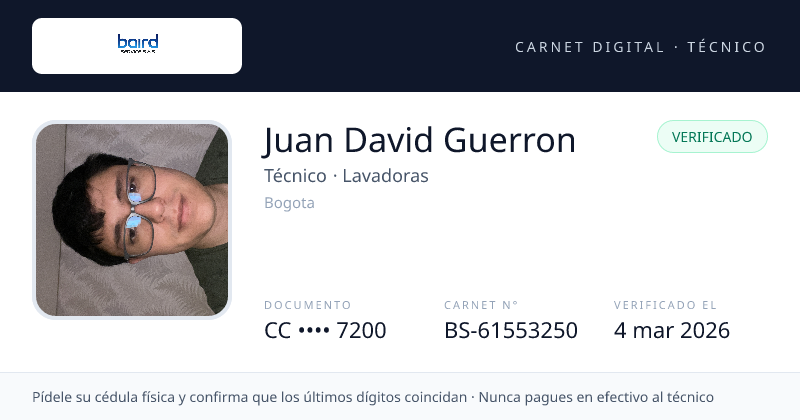
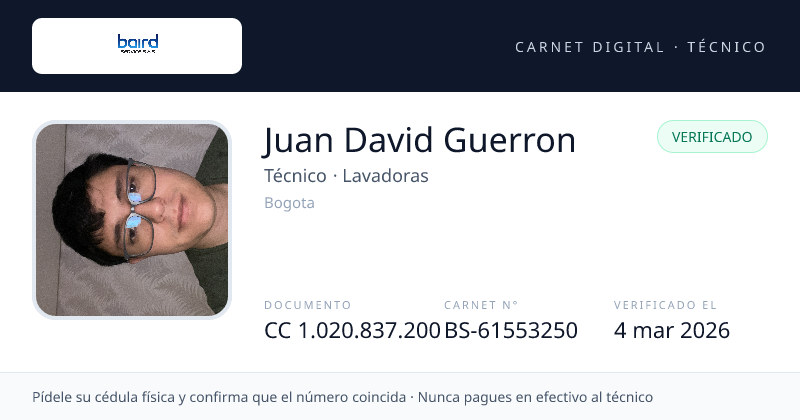
feat(carnet): mostrar el número de cédula completo (solo se oculta la foto del documento)
Decisión 2026-10-10: el carnet digital muestra tipo + número de documento
con puntos de miles (CC 1.020.837.200) para que el cliente lo coteje con la
cédula física. Lo que no sale de /admin es la IMAGEN de la cédula.

- carnet.ts: formatearDocumento() reemplaza a enmascararDocumento();
  campo `documento` en CarnetTecnicoData. Tests actualizados.
- CarnetTecnico.tsx, /api/carnet PNG (columna Documento más ancha), portal
  del técnico, caption de WhatsApp, home y docs: textos pasan de "últimos
  dígitos" a "confirma que el número coincida".
- scripts/muestra-carnet.png regenerada.

Changed region(s): [[0.3438, 0.9286, 0.9062, 0.9595], [0.375, 0.7429, 0.5625, 0.8048]]

diff --git a/src/lib/utils/carnet.ts b/src/lib/utils/carnet.ts
@@ -4,10 +4,10 @@
  * Reemplaza la exposición de la FOTO DE LA CÉDULA al cliente (portal
  * /servicio/{cliente_token} + imagen por WhatsApp en procesarAceptacion):
  * el cliente solo necesita confirmar que la persona que llega es la que Baird
- * asignó, y eso se logra con foto de perfil + nombre + documento ENMASCARADO
- * (últimos dígitos) que el cliente compara contra la cédula física que el
- * técnico muestra en la puerta. La imagen completa de la cédula es PII
- * sensible (Ley 1581/2012) y no vuelve a salir de /admin.
+ * asignó, y eso se logra con foto de perfil + nombre + tipo y NÚMERO de
+ * documento que el cliente compara contra la cédula física que el técnico
+ * muestra en la puerta (decisión 2026-10-10: el número sí se muestra; lo que
+ * no sale de /admin es la IMAGEN de la cédula, PII sensible, Ley 1581/2012).
  *
  * Tres superficies consumen el mismo modelo `CarnetTecnicoData`:
  *   - `src/components/ui/CarnetTecnico.tsx` → tarjeta React (portal cliente
@@ -23,8 +23,8 @@ export interface CarnetTecnicoData {
   nombre_completo: string
   foto_perfil_url: string | null
   tipo_documento: string | null
-  /** Documento ENMASCARADO (p.ej. "•••• 4567"). Nunca el número completo. */
-  documento_enmascarado: string | null
+  /** Número de documento formateado con puntos de miles (p.ej. "1.032.456.789"). */
+  documento: string | null
   especialidad_principal: string | null
   ciudad_pueblo: string | null
   verificado: boolean
@@ -52,21 +52,18 @@ export interface CarnetTecnicoRow {
   contrato_firmado?: boolean | null
 }
 
-/** Cuántos dígitos finales del documento se muestran en el carnet. */
-export const DIGITOS_VISIBLES_DOCUMENTO = 4
-
 /**
- * Enmascara el número de documento dejando visibles solo los últimos
- * `DIGITOS_VISIBLES_DOCUMENTO` dígitos: "1032456789" → "•••• 6789".
- * Documentos muy cortos (≤ 4 dígitos) se ocultan por completo. Devuelve null
- * si no hay número.
+ * Formatea el número de documento para el carnet: limpia puntos/espacios y,
+ * si es puramente numérico, agrega puntos de miles ("1032456789" →
+ * "1.032.456.789"). Pasaportes alfanuméricos se devuelven limpios tal cual.
+ * Devuelve null si no hay número.
  */
-export function enmascararDocumento(numero: string | null | undefined): string | null {
+export function formatearDocumento(numero: string | null | undefined): string | null {
   if (!numero) return null
-  const limpio = String(numero).replace(/[^0-9A-Za-z]/g, '')
+  const limpio = String(numero).replace(/[^0-9A-Za-z]/g, '').toUpperCase()
   if (!limpio) return null
-  if (limpio.length <= DIGITOS_VISIBLES_DOCUMENTO) return '••••'
-  return `•••• ${limpio.slice(-DIGITOS_VISIBLES_DOCUMENTO)}`
+  if (!/^\d+$/.test(limpio)) return limpio
+  return limpio.replace(/\B(?=(\d{3})+(?!\d))/g, '.')
 }
 
 /**
@@ -86,7 +83,7 @@ export function construirCarnet(row: CarnetTecnicoRow): CarnetTecnicoData {
     nombre_completo: row.nombre_completo,
     foto_perfil_url: row.foto_perfil_url ?? null,
     tipo_documento: row.tipo_documento ?? null,
-    documento_enmascarado: enmascararDocumento(row.numero_documento),
+    documento: formatearDocumento(row.numero_documento),
     especialidad_principal: row.especialidad_principal ?? null,
     ciudad_pueblo: row.ciudad_pueblo ?? null,
     verificado,

diff --git a/src/__tests__/utils/carnet.test.ts b/src/__tests__/utils/carnet.test.ts
@@ -2,35 +2,30 @@ import { describe, it, expect } from 'vitest'
 import {
   codigoCarnet,
   construirCarnet,
-  enmascararDocumento,
+  formatearDocumento,
   formatearFechaCarnet,
   urlImagenCarnet,
 } from '@/lib/utils/carnet'
 
-describe('enmascararDocumento', () => {
-  it('deja visibles solo los últimos 4 dígitos', () => {
-    expect(enmascararDocumento('1032456789')).toBe('•••• 6789')
+describe('formatearDocumento', () => {
+  it('agrega puntos de miles a un número de cédula', () => {
+    expect(formatearDocumento('1032456789')).toBe('1.032.456.789')
+    expect(formatearDocumento('80123456')).toBe('80.123.456')
   })
 
-  it('limpia puntos y espacios antes de enmascarar', () => {
-    expect(enmascararDocumento('1.032.456.789')).toBe('•••• 6789')
-    expect(enmascararDocumento(' 80 123 456 ')).toBe('•••• 3456')
+  it('limpia puntos y espacios antes de formatear', () => {
+    expect(formatearDocumento('1.032.456.789')).toBe('1.032.456.789')
+    expect(formatearDocumento(' 80 123 456 ')).toBe('80.123.456')
   })
 
-  it('oculta por completo documentos de 4 o menos caracteres', () => {
-    expect(enmascararDocumento('1234')).toBe('••••')
-    expect(enmascararDocumento('12')).toBe('••••')
+  it('devuelve pasaportes alfanuméricos limpios en mayúscula', () => {
+    expect(formatearDocumento('ab 123456')).toBe('AB123456')
   })
 
   it('devuelve null sin número', () => {
-    expect(enmascararDocumento(null)).toBeNull()
-    expect(enmascararDocumento('')).toBeNull()
-    expect(enmascararDocumento('---')).toBeNull()
-  })
-
-  it('nunca contiene el número completo', () => {
-    const num = '1032456789'
-    expect(enmascararDocumento(num)).not.toContain(num)
+    expect(formatearDocumento(null)).toBeNull()
+    expect(formatearDocumento('')).toBeNull()
+    expect(formatearDocumento('---')).toBeNull()
   })
 })
 
@@ -58,15 +53,14 @@ describe('construirCarnet', () => {
     contrato_firmado: true,
   }
 
-  it('arma el carnet verificado con documento enmascarado', () => {
+  it('arma el carnet verificado con el número de documento completo', () => {
     const c = construirCarnet(base)
     expect(c.verificado).toBe(true)
-    expect(c.documento_enmascarado).toBe('•••• 6789')
+    expect(c.documento).toBe('1.032.456.789')
+    expect(c.tipo_documento).toBe('CC')
     expect(c.fecha_verificacion).toBe(base.fecha_verificacion)
     expect(c.codigo).toBe('BS-3F2A9C1E')
     expect(c.contrato_firmado).toBe(true)
-    // El modelo NO transporta el número completo
-    expect(JSON.stringify(c)).not.toContain('1032456789')
   })
 
   it('un técnico pendiente no queda verificado ni con fecha', () => {
@@ -77,7 +71,7 @@ describe('construirCarnet', () => {
 
   it('tolera columnas ausentes (registros viejos)', () => {
     const c = construirCarnet({ id: base.id, nombre_completo: 'X' })
-    expect(c.documento_enmascarado).toBeNull()
+    expect(c.documento).toBeNull()
     expect(c.foto_perfil_url).toBeNull()
     expect(c.contrato_firmado).toBe(false)
   })

diff --git a/src/app/page.tsx b/src/app/page.tsx
@@ -72,7 +72,7 @@ const CONTENIDO = {
         num: '03',
         emoji: '🪪',
         titulo: 'Recibes su carnet digital',
-        texto: 'Foto, nombre y últimos dígitos de su cédula llegan a tu WhatsApp. Al abrir la puerta, lo comparas con su documento físico.',
+        texto: 'Foto, nombre y número de cédula llegan a tu WhatsApp. Al abrir la puerta, lo comparas con su documento físico.',
         img: IMAGES.plumberSink,
       },
       {
@@ -171,7 +171,7 @@ const CONTENIDO = {
   },
   confianza: [
     { emoji: '🏅', titulo: 'Calidad certificada ISO 9001', texto: 'Somos una empresa certificada en gestión de calidad bajo la norma internacional ISO 9001.' },
-    { emoji: '🪪', titulo: 'Carnet digital del técnico', texto: 'Recibes por WhatsApp y en tu portal el carnet con foto, nombre y últimos dígitos de la cédula para cotejar en la puerta. Nunca compartimos su documento completo.' },
+    { emoji: '🪪', titulo: 'Carnet digital del técnico', texto: 'Recibes por WhatsApp y en tu portal el carnet con foto, nombre y número de cédula para cotejar en la puerta. La foto de su documento nunca se comparte.' },
     { emoji: '🔒', titulo: 'Pago seguro a Baird Service', texto: 'El pago se realiza directamente a la empresa por medios electrónicos. No se acepta efectivo.' },
     { emoji: '🤝', titulo: 'Compromiso de calidad', texto: 'Solo técnicos que cumplen los estándares de Baird pueden recibir solicitudes.' },
   ],
@@ -240,11 +240,11 @@ function WhatsAppMockup() {
                   <div className="w-7 h-7 rounded-lg bg-slate-200 flex items-center justify-center text-[10px] font-black text-slate-600">CR</div>
                   <div className="leading-tight">
                     <p className="text-[11px] font-semibold text-gray-800">Carlos R.</p>
-                    <p className="text-[9px] text-emerald-700 font-semibold">✓ Verificado · CC •••• 4521</p>
+                    <p className="text-[9px] text-emerald-700 font-semibold">✓ Verificado · CC 80.123.456</p>
                   </div>
                 </div>
                 <p className="text-[10px] text-gray-500 leading-relaxed">
-                  🪪 Carnet digital de tu técnico. Al llegar, pídele su cédula y confirma los últimos dígitos.
+                  🪪 Carnet digital de tu técnico. Al llegar, pídele su cédula y confirma que el número coincida.
                 </p>
                 <p className="text-[10px] text-gray-400 text-right mt-1">10:41 AM ✓✓</p>
               </div>

diff --git a/src/app/api/carnet/[tecnicoId]/route.tsx b/src/app/api/carnet/[tecnicoId]/route.tsx
@@ -70,8 +70,8 @@ export async function GET(req: NextRequest, ctx: { params: Promise<{ tecnicoId: 
     .map(p => p[0]?.toUpperCase() ?? '')
     .join('')
 
-  const documento = carnet.documento_enmascarado
-    ? `${carnet.tipo_documento ?? 'CC'} ${carnet.documento_enmascarado}`
+  const documento = carnet.documento
+    ? `${carnet.tipo_documento ?? 'CC'} ${carnet.documento}`
     : '—'
 
   const img = new ImageResponse(
@@ -177,11 +177,11 @@ export async function GET(req: NextRequest, ctx: { params: Promise<{ tecnicoId: 
             </div>
 
             <div style={{ display: 'flex', marginTop: 'auto', width: '100%' }}>
-              <div style={{ display: 'flex', flexDirection: 'column', width: 180 }}>
+              <div style={{ display: 'flex', flexDirection: 'column', width: 240 }}>
                 <span style={{ fontSize: 11, letterSpacing: 2, color: '#94a3b8', textTransform: 'uppercase' }}>Documento</span>
                 <span style={{ fontSize: 22, fontWeight: 700, marginTop: 2 }}>{documento}</span>
               </div>
-              <div style={{ display: 'flex', flexDirection: 'column', width: 170 }}>
+              <div style={{ display: 'flex', flexDirection: 'column', width: 160 }}>
                 <span style={{ fontSize: 11, letterSpacing: 2, color: '#94a3b8', textTransform: 'uppercase' }}>Carnet N°</span>
                 <span style={{ fontSize: 22, fontWeight: 700, marginTop: 2 }}>{carnet.codigo}</span>
               </div>
@@ -206,7 +206,7 @@ export async function GET(req: NextRequest, ctx: { params: Promise<{ tecnicoId: 
             color: '#475569',
           }}
         >
-          Pídele su cédula física y confirma que los últimos dígitos coincidan · Nunca pagues en efectivo al técnico
+          Pídele su cédula física y confirma que el número coincida · Nunca pagues en efectivo al técnico
         </div>
       </div>
     ),

diff --git a/src/components/ui/CarnetTecnico.tsx b/src/components/ui/CarnetTecnico.tsx
@@ -100,8 +100,8 @@ export default function CarnetTecnico({ carnet, ayuda = 'ninguno', className = '
             <div>
               <dt className="text-[10px] uppercase tracking-wide text-slate-400 font-semibold">Documento</dt>
               <dd className="font-mono text-slate-900 mt-0.5">
-                {carnet.documento_enmascarado
-                  ? `${carnet.tipo_documento ?? 'CC'} ${carnet.documento_enmascarado}`
+                {carnet.documento
+                  ? `${carnet.tipo_documento ?? 'CC'} ${carnet.documento}`
                   : '—'}
               </dd>
             </div>
@@ -126,13 +126,13 @@ export default function CarnetTecnico({ carnet, ayuda = 'ninguno', className = '
             {ayuda === 'cliente' && (
               <>
                 <span className="font-semibold text-slate-700">Al llegar, pídele su cédula física</span> y confirma que
-                los últimos dígitos coincidan con este carnet. Nunca pagues en efectivo al técnico.
+                el número coincida con este carnet. Nunca pagues en efectivo al técnico.
               </>
             )}
             {ayuda === 'tecnico' && (
               <>
                 Muestra este carnet al cliente al llegar y ten tu cédula física a la mano: el cliente
-                comparará los últimos dígitos.
+                comparará el número con este carnet.
               </>
             )}
             {ayuda === 'ninguno' && <>Carnet emitido por Baird Service S.A.S. · lineablanca.bairdservice.com</>}

diff --git a/src/lib/services/whatsapp.service.ts b/src/lib/services/whatsapp.service.ts
@@ -1116,7 +1116,7 @@ export async function procesarAceptacion(token: string, horarioSeleccionado?: 1 
     await enviarImagen(
       sol.cliente_telefono,
       carnetUrl,
-      `🪪 Carnet digital de ${tecnico.nombre_completo} — tu técnico Baird Service. Al llegar, pídele su cédula física y confirma que los últimos dígitos coincidan.`
+      `🪪 Carnet digital de ${tecnico.nombre_completo} — tu técnico Baird Service. Al llegar, pídele su cédula física y confirma que el número coincida.`
     ).catch(err => console.error('[procesarAceptacion] carnet digital falló (24h?):', err instanceof Error ? err.message : err))
   }
 

diff --git a/src/app/tecnico/[token]/page.tsx b/src/app/tecnico/[token]/page.tsx
@@ -401,7 +401,7 @@ function CarnetModal({ carnet, onClose }: { carnet: CarnetTecnicoData; onClose: 
         </button>
       </div>
       <p className="mt-4 text-[11px] text-slate-400 text-center max-w-sm">
-        El cliente ya recibió este carnet en su portal. Tu cédula completa nunca se le muestra: solo los últimos dígitos.
+        El cliente ya recibió este carnet en su portal. La foto de tu cédula nunca se le muestra: solo tu nombre, foto de perfil y número de documento.
       </p>
     </div>
   )

diff --git a/docs/GOTCHAS.md b/docs/GOTCHAS.md
@@ -22,7 +22,7 @@ Trampas conocidas. Léelo antes de tocar código sensible.
 - **Nada de `void promesa` (fire-and-forget) en código server-side (2026-10-09):** en Vercel la función se congela apenas responde; una promesa sin `await` queda pendiente y se ejecuta minutos después (cuando la instancia se reusa) o nunca. Caso real: `registrarMensajeCliente()` (evento `mensaje_cliente` del historial) se llamaba con `void` en 19 sitios de `whatsapp.service.ts`; tras la carga masiva de 3 órdenes MABE el admin no vio en el historial que la plantilla de horario ya había salido y la reenvió → clientes con el WhatsApp duplicado. Hoy todo `registrarMensajeCliente` va con `await` (hay test: `src/__tests__/services/historial-mensaje-cliente.test.ts`). Si de verdad necesitas trabajo post-respuesta, usa `after()` de `next/server` como hace `/api/solicitar` con el geocoding. Complemento: el webhook registra los `status=failed` de Meta como evento `mensaje_cliente` (payload `entrega:'failed'`) en la solicitud activa del cliente, y "Reenviar último mensaje" refresca el historial al terminar.
 - **Subida de fotos = SIEMPRE dos entradas, cámara en vivo + guardadas (2026-10-09):** `src/components/ui/SelectorFoto.tsx` renderiza dos `<input type="file">` ocultos: uno con `capture="user"|"environment"` (abre la cámara frontal/trasera) y otro sin `capture` (galería o explorador, aquí se puede sumar PDF vía `acceptGaleria`). No se puede hacer con un solo input: en iOS `capture` oculta la Fototeca y en varios Android salta el selector. Usado en /registro (perfil = cámara frontal, cédula = trasera), `ProductosNecesariosForm`, portal supervisor (guía + comprobante) y admin (contrato escaneado). Diagnóstico y completar ya tenían el mismo patrón con inputs propios. Si agregas un nuevo punto de subida de fotos, usa el componente en vez de un input suelto.
 - **Fotos de /registro (perfil + cédula) se preparan en el navegador (2026-10-09):** `handleFileChange` llama a `prepararFoto()` (`src/lib/utils/foto-registro.ts`) ANTES de guardar el archivo en estado: detecta el tipo real por magic bytes (`sniffImageType`, manda sobre `file.type`, que Android a veces deja vacío y un PDF renombrado puede falsear), lo comprime/re-encodea a JPEG con `compressImageIfNeeded` (perfil 1600 px, cédula 2400 px; `forceReencode` para WebP/HEIC/GIF/BMP porque el JPEG puede pesar más que el original y aun así lo queremos) y recién ahí valida el tope de 5 MB. Antes se rechazaban fotos de celular >2 MB, WebP/HEIC y archivos sin extensión. HEIC solo se decodifica en Safari: en Chrome/Android el técnico recibe un mensaje para tomar la foto desde el formulario. `uploadImage()` (uploadHelpers) ya NO exige extensión en el nombre (la deriva de los magic bytes) y expone el mensaje real de Supabase en el error. Si un técnico reporta "no me deja subir la foto", pedirle el texto exacto del mensaje: distingue formato no decodificable / no es imagen / policy de Storage.
-- **Storage público y PII:** los buckets `tecnicos-documentos`, `tecnicos-fotos`, `evidencias-servicio` están todos públicos via `getPublicUrl()`. La cédula del técnico es accesible a quien tenga la URL — pendiente migrar a `createSignedUrl()` (TTL 1h) en `src/lib/uploadHelpers.ts`. **No publicar URLs de documentos en lugares públicos**. **Desde 2026-10-10 `foto_documento_url` NO se le muestra ni se le envía al cliente**: el cliente ve el **carnet digital** (`src/lib/utils/carnet.ts` → documento enmascarado). Si agregas una superficie nueva para el cliente, usa `CARNET_TECNICO_SELECT` + `construirCarnet()`; nunca selecciones `foto_documento_url`/`numero_documento` fuera de `/admin`.
+- **Storage público y PII:** los buckets `tecnicos-documentos`, `tecnicos-fotos`, `evidencias-servicio` están todos públicos via `getPublicUrl()`. La cédula del técnico es accesible a quien tenga la URL — pendiente migrar a `createSignedUrl()` (TTL 1h) en `src/lib/uploadHelpers.ts`. **No publicar URLs de documentos en lugares públicos**. **Desde 2026-10-10 `foto_documento_url` NO se le muestra ni se le envía al cliente**: el cliente ve el **carnet digital** (`src/lib/utils/carnet.ts`: foto perfil + nombre + número de documento, sin la imagen de la cédula). Si agregas una superficie nueva para el cliente, usa `CARNET_TECNICO_SELECT` + `construirCarnet()`; nunca selecciones `foto_documento_url` fuera de `/admin`.
 - **RLS (estado tras Fase 4.1, 2026-07-11 — ver `docs/PLAN-RLS.md` § 3bis):** el server escribe con service_role (bypass RLS), así que las policies solo gobiernan al browser (anon). Cerradas al anon: `supervisores`, `llamadas`, `gps_pings`, `solicitud_eventos` (SELECT solo authenticated), `connection_errors` (idem), `pagos`, `cliente_historial`. Solo SELECT anon: `notificaciones_whatsapp` (`/aceptar`), `repuestos_pendientes` (`/verificar-paso`). Aún con writes anon `USING(true)`: `tecnicos` (`/registro` client-side) y `evidencias_servicio` (uploads client-side) — Fase 2/3. **Sigue deshabilitado en `solicitudes_servicio` (la tabla principal) y `especialidades_tecnico`** — ahí la seguridad depende 100% de tokens UUID en URLs y validación en API routes. Nunca expongas IDs sin token. Ojo: una `POLICY` no se aplica si la tabla tiene RLS off, así que las policies `anon_*`/`service_role_*` de `solicitudes_servicio` están definidas pero inertes.
 - **Cliente Supabase singleton + sesión admin:** `src/lib/supabase.ts` es un único cliente con `persistSession` activo. Si el admin se loguea (`supabase.auth`) y luego abre un portal con token (`/tecnico`, `/servicio`...) en el MISMO navegador, los requests salen con rol `authenticated`, no `anon`. Por eso las policies de Storage deben scopearse a `public` (= anon + authenticated), no solo `{anon}` — si no, subir evidencia falla con `new row violates row-level security policy`. Ver `supabase/migrations/20260521_storage_policies_public_role.sql`.
 - **WhatsApp 24h window:** Free-form text messages require the customer to have messaged the business within the last 24 hours. Template messages can be sent anytime. Always use templates for proactive outreach.

diff --git a/docs/ARQUITECTURA.md b/docs/ARQUITECTURA.md
@@ -199,7 +199,7 @@ El helper se invoca en cada **transition owner** (la función/route que muta `es
 | `/api/whatsapp/accept` | GET | Aceptación 1-click del técnico desde la plantilla WhatsApp. Token único por notificación. Llama `procesarAceptacion()` — atomic update primer-técnico-gana. Redirige al portal del técnico tras aceptar. | Both |
 | `/api/whatsapp/notify` | POST | Admin re-notifica técnicos para una solicitud (volver a disparrar el broadcast a técnicos compatibles). Usa `notificarTecnicos()`. | Both |
 | `/api/notificar-registro` | POST | Post-registro del técnico: envía `registro_bienvenida_v3` con link al portal. | N/A |
-| `/api/carnet/[tecnicoId]` | GET | **Carnet digital del técnico** como PNG (`next/og`, 800×420): foto de perfil, nombre, especialidad, ciudad, estado de verificación y documento **enmascarado** (`CC •••• 6789`) + código `BS-XXXXXXXX`. Sin auth (el UUID no es enumerable y el contenido es el que ya ve cualquier cliente asignado); 400 si no es UUID, 404 si no existe; cache 10 min. Lo consume `procesarAceptacion` (imagen free-form + HEADER IMAGE de `tecnico_asignado_cliente_v7`/`tecnico_asignado_particular_v2`) y el botón "Compartir" del portal del técnico. Modelo en `src/lib/utils/carnet.ts`; tarjeta React en `components/ui/CarnetTecnico.tsx` (portal cliente + "Mi carnet" del portal técnico). Reemplaza el envío de la **foto de la cédula** (2026-10-10). | N/A |
+| `/api/carnet/[tecnicoId]` | GET | **Carnet digital del técnico** como PNG (`next/og`, 800×420): foto de perfil, nombre, especialidad, ciudad, estado de verificación y tipo + número de documento + código `BS-XXXXXXXX`. Sin auth (el UUID no es enumerable y el contenido es el que ya ve cualquier cliente asignado); 400 si no es UUID, 404 si no existe; cache 10 min. Lo consume `procesarAceptacion` (imagen free-form + HEADER IMAGE de `tecnico_asignado_cliente_v7`/`tecnico_asignado_particular_v2`) y el botón "Compartir" del portal del técnico. Modelo en `src/lib/utils/carnet.ts`; tarjeta React en `components/ui/CarnetTecnico.tsx` (portal cliente + "Mi carnet" del portal técnico). Reemplaza el envío de la **foto de la cédula** (2026-10-10). | N/A |
 | `/api/tecnico/perfil` | POST | Autoservicio del técnico (auth por `portal_token`, service_role): especialidades (sync insert/delete en `especialidades_tecnico`), `cubre_gasodomesticos`, `tiene_arl` y **declaración** de certificaciones (solo siembra `declarada`/`sin_revisar`, nunca pisa una verificación del admin). Fija `perfil_actualizado_at`. Ver `docs/CERTIFICACIONES.md`. | N/A |
 | `/api/log-error` | POST | Telemetría fire-and-forget de errores de conexión del cliente. Inserta en `connection_errors` y loguea a stderr con prefijo `[ConnectionError]`. Siempre responde 200. | N/A |
 | `/api/whatsapp/webhook` | GET/POST | Meta webhook handshake + events. POST: alerta al admin por cada mensaje entrante, log `UNDELIVERED` por cada `status=failed` y, desde 2026-10-09, ese fallo queda como evento `mensaje_cliente` (payload `entrega:'failed'`) en la solicitud activa del cliente | N/A |

diff --git a/docs/WHATSAPP_TEMPLATES.md b/docs/WHATSAPP_TEMPLATES.md
@@ -160,7 +160,7 @@ Todas en idioma `es`. Categoría `UTILITY` salvo notas.
 #### `tecnico_asignado_cliente_v7` (nueva 2026-10-10 — **en script, pendiente subir a Meta**) 🪪 carnet digital
 - **Disparo**: `procesarAceptacion()` cuando `es_garantia=true`. Se intenta PRIMERO; si falla (PENDING/rechazo) cae a `_v6`.
 - **Destino**: cliente
-- **Header IMAGE**: `{APP_URL}/api/carnet/{tecnico_id}` — PNG del **carnet digital** (foto de perfil + nombre + especialidad + documento ENMASCARADO `CC •••• 6789` + código). Reemplaza las 2 imágenes free-form (foto perfil + **foto de la cédula**) que fallaban por ventana 24h y exponían PII.
+- **Header IMAGE**: `{APP_URL}/api/carnet/{tecnico_id}` — PNG del **carnet digital** (foto de perfil + nombre + especialidad + tipo y número de documento + código). Reemplaza las 2 imágenes free-form (foto perfil + **foto de la cédula**) que fallaban por ventana 24h y exponían PII.
 - **Body** (5 params): iguales a `_v6` + párrafo "Arriba está su carnet digital. Al llegar, pídele su cédula física y confirma que los últimos dígitos coincidan."
 - **Botón URL dinámica**: `{APP_URL}/servicio/{{1}}` con `{{1}} = cliente_token` — display "Ver mi servicio"
 - **Subir**: necesita muestra `scripts/muestra-carnet.png` (ya incluida; regenerar con `curl -o scripts/muestra-carnet.png $APP_URL/api/carnet/<uuid>`). `node --env-file=.env.local scripts/upload-templates.mjs tecnico_asignado_cliente_v7`.
@@ -482,7 +482,7 @@ Algunos avisos se envían como **texto libre** (`enviarMensajeTexto`) en vez de 
 |---|---|---|
 | 🪪 Carnet digital del técnico (`/api/carnet/{tecnico_id}`) | `procesarAceptacion()` post-asignación (best-effort) | Va como HEADER IMAGE de `tecnico_asignado_cliente_v7` / `tecnico_asignado_particular_v2` (no requiere ventana) y se renderiza en `/servicio/{cliente_token}` |
 
-**Hasta 2026-10-10** acá salían DOS imágenes: la foto de perfil y la **foto de la cédula** del técnico. La cédula es PII sensible (Ley 1581/2012) y **ya no se envía ni se muestra al cliente en ningún canal** — solo el carnet con documento enmascarado (`src/lib/utils/carnet.ts`). La foto completa queda únicamente en `/admin/tecnicos/[id]`.
+**Hasta 2026-10-10** acá salían DOS imágenes: la foto de perfil y la **foto de la cédula** del técnico. La cédula es PII sensible (Ley 1581/2012) y **ya no se envía ni se muestra al cliente en ningún canal** — solo el carnet (`src/lib/utils/carnet.ts`: foto de perfil, nombre, tipo y número de documento; la IMAGEN de la cédula no). La foto completa queda únicamente en `/admin/tecnicos/[id]`.
 
 ---
 

diff --git a/docs/SEGURIDAD.md b/docs/SEGURIDAD.md
@@ -265,7 +265,7 @@ Verificado post-4.1 (SQL con rol anon simulado): 0 filas y `42501` al escribir e
 
 ⚠ **`tecnicos-documentos` PII expuesto**: cualquiera con la URL puede descargar la cédula del técnico. **Backlog**: migrar a `createSignedUrl()` (TTL 1h) en `src/lib/uploadHelpers.ts`. Mismo aplica con menor severidad a las otras dos.
 
-✅ **Mitigación 2026-10-10 — carnet digital**: la URL de la cédula **ya no se entrega al cliente** por ningún canal (antes salía como imagen por WhatsApp en `procesarAceptacion` y se renderizaba en `/servicio/{cliente_token}`). El cliente recibe el **carnet digital** (`src/lib/utils/carnet.ts`, componente `CarnetTecnico`, PNG en `GET /api/carnet/{tecnico_id}`): foto de perfil, nombre, especialidad, ciudad, estado de verificación y documento **enmascarado** (`CC •••• 6789`) para cotejar contra la cédula física. La foto completa de la cédula solo se ve en `/admin/tecnicos/[id]`. El bucket sigue público (el backlog de signed URLs se mantiene), pero la URL dejó de circular fuera del admin.
+✅ **Mitigación 2026-10-10 — carnet digital**: la URL de la cédula **ya no se entrega al cliente** por ningún canal (antes salía como imagen por WhatsApp en `procesarAceptacion` y se renderizaba en `/servicio/{cliente_token}`). El cliente recibe el **carnet digital** (`src/lib/utils/carnet.ts`, componente `CarnetTecnico`, PNG en `GET /api/carnet/{tecnico_id}`): foto de perfil, nombre, especialidad, ciudad, estado de verificación y tipo + número de documento para cotejar contra la cédula física. La foto completa de la cédula solo se ve en `/admin/tecnicos/[id]`. El bucket sigue público (el backlog de signed URLs se mantiene), pero la URL dejó de circular fuera del admin.
 
 **No publicar URLs de documentos en lugares públicos** (issues, Slack público, screenshots, etc.).
 

diff --git a/docs/FLOWS.md b/docs/FLOWS.md
@@ -163,7 +163,7 @@ La marca (Mabe/GE) paga a Baird vía tarifa por código de complejidad. El clien
 │    NO está abierta → error #131047). El canal durable es el HEADER de    │
 │    la plantilla _v7 + el carnet en /servicio/{cliente_token}.            │
 │ 🔒 La FOTO DE LA CÉDULA ya NO se envía ni se muestra al cliente (PII):   │
-│    el carnet trae el documento enmascarado "CC •••• 6789" y el cliente   │
+│    el carnet trae tipo + número de documento y el cliente lo              │
 │    lo compara con la cédula física al llegar. Ver src/lib/utils/carnet.ts│
 └──────────────────────────────────────────────────────────────────────────┘
                                   │
@@ -535,7 +535,7 @@ Cliente abre `/servicio/{cliente_token}` (URL incluida en plantillas iniciales o
 │   - Estado actual (badge + label)                                        │
 │   - Equipo, ubicación, horario_confirmado                                │
 │   - Carnet digital del técnico asignado (foto perfil, nombre,            │
-│     especialidad, documento ENMASCARADO, código) — nunca la cédula       │
+│     especialidad, número de documento, código) — nunca la FOTO cédula   │
 │   - Botones según estado:                                                │
 │       Cancelar (si estado ∈ ESTADOS_CANCELABLES_POR_CLIENTE)             │
 │       Reagendar (si estado ∈ ESTADOS_REAGENDABLES_POR_CLIENTE            │
